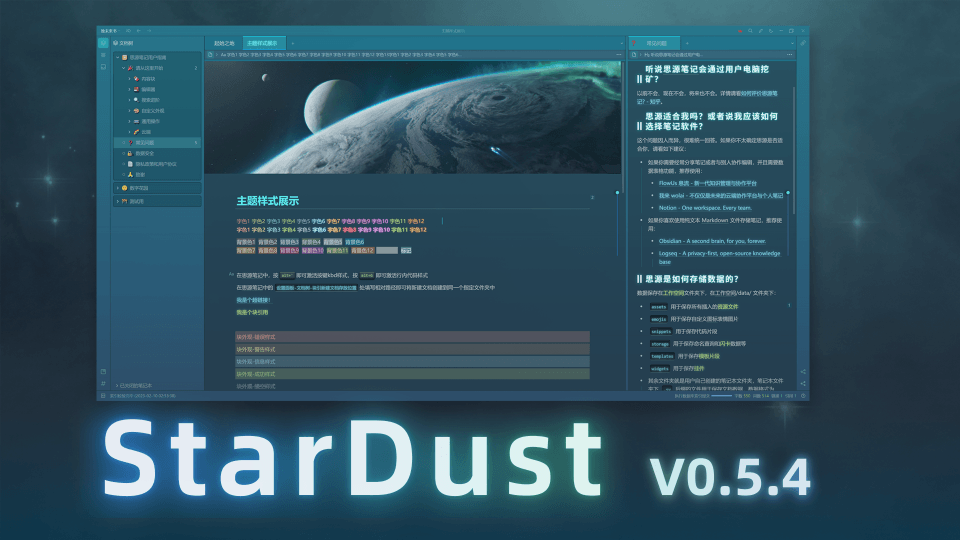
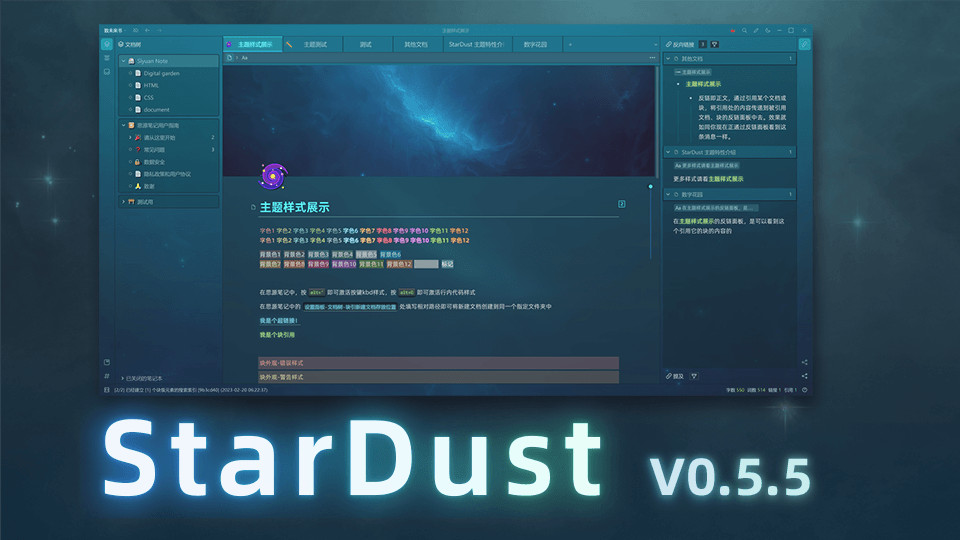
update v0.5.5 files

diff --git a/布局/背景图.css b/布局/背景图.css
@@ -5,7 +5,7 @@ html {
     width: 100%;
     height: 100%;
     /* filter: blur(8px); */
-    background-image: url("../pic/bg1.jpg") !important;
+    background-image: url("../pic/Akrae Nebula by Starkiteckt Designs.jpg") !important;
     background-size: cover;
     position: absolute;
     background-position: center top;
@@ -42,13 +42,18 @@ body {
 }
 
 .protyle-content {
-    background-color: #0c1b2566 !important;
+    background-color: #122b3a96 !important;
+    backdrop-filter: blur(10px);
 }
 
 .sy__backlink .backlinkList, .sy__backlink .backlinkMList {
     background-color: #0c1b2566!important;
 }
 
+.sy__backlink .protyle-content,.sy__backlink .protyle{
+    background-color: transparent !important;
+    backdrop-filter: blur(5px);
+}
 
 .file-tree.sy__outline > .fn__flex-1 {
     background-color: #184f6378;
@@ -62,4 +67,12 @@ body {
 }
 .sy__tag > .fn__flex-1 {
     background-color: #184f6378;
+}
+
+
+.sy__backlink .b3-list-item {
+    background-color: #1966837a;
+}
+.layout__tab--active .b3-list--background .b3-list-item--focus:not(.dragover):not(.dragover__top):not(.dragover__bottom){
+    background-color: #7ff5ff47;
 }

diff --git a/样式修改/行内样式/按键.css b/样式修改/行内样式/按键.css
@@ -10,6 +10,6 @@
     text-shadow: 0px -1px 5px #8ef52f99;
     font-weight: 300;
     border: none;
-    box-shadow: inset 0px 2px 1px #6e82869e, inset 0px -3px 1px 0px #1f2a2bd1, 0px 2px 3px 1px #030a0f;
+    box-shadow: inset 0px 2px 1px #6e82869e, inset 0px -3px 1px 0px #273132d1, 0px 1px 2px 1px #030a0f;
     vertical-align: 1px;
 }

diff --git a/theme.css b/theme.css
@@ -60,6 +60,6 @@
 /* @import url("样式修改/行内样式/12种背景色.css"); */
 /* @import url("样式修改/行内样式/12种荧光字.css"); */
 /* @import url("布局/卷轴布局.css"); */
-/* @import url("布局/背景图.css"); */
+@import url("布局/背景图.css");
 
 @import url("杂乱的修改.css");

diff --git a/部件修改/反链&提及面板.css b/部件修改/反链&提及面板.css
@@ -50,3 +50,5 @@
 .sy__backlink .backlinkList,.sy__backlink .backlinkMList{
     background-color: #1e4053;
 }
+
+
